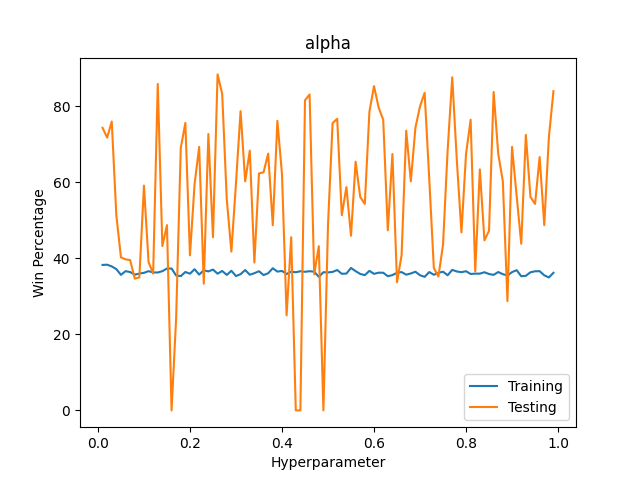
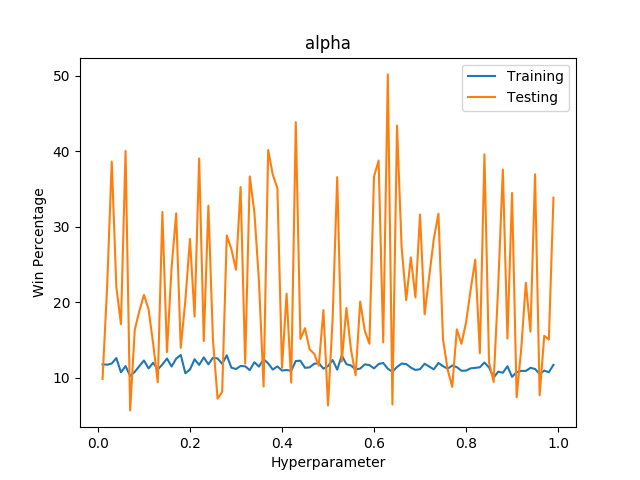
updated docs

diff --git a/qlearning.py b/qlearning.py
@@ -1,12 +1,10 @@
 import numpy as np
 import matplotlib.pyplot as plt
-
 import sys
 
 from minesweeper import Minesweeper
 
 np.random.seed(0)
-
 
 class QLearning():
 
@@ -20,7 +18,7 @@ class QLearning():
 
     def train(self, epochs=1000):
         """
-        Trains model and returns win percentage over epochs. 
+        Trains function and returns win percentage over epochs. 
         """
 
         alpha = self.alpha
@@ -66,7 +64,7 @@ class QLearning():
 
     def test(self, trials=100):
         """
-        Gets win percentage of model over trials. Model repeating action counts as a lose. Model losing on first choice is not counted as lose.
+        Gets win percentage of function over trials. Repeating action counts as a lose. Losing on first choice is not counted as lose.
         """
 
         env = self.env
@@ -114,36 +112,38 @@ def graph():
     testing = []
 
     for x in xs:
-        print(int(x * 100))
-        model = QLearning(size=3, mines=2, gamma=x)
+
+        sys.stdout.write(
+            f'\rDone {x*100}%')
+        sys.stdout.flush()
+
+        model = QLearning(size=4, mines=2, epsilon=x)
         training += [model.train(10000)]
-        testing += [model.test(100)]
+        testing += [model.test(10000)[0]]
 
     plt.plot(xs, training, label="Training")
     plt.plot(xs, testing, label="Testing")
     plt.xlabel('Hyperparameter')
     plt.ylabel('Win Percentage')
-    plt.title('gamma')
+    plt.title('epsilon')
     plt.legend()
-    plt.savefig('graphs/gamma.png')
-    plt.show()
+    plt.savefig('graphs/epsilon.png')
+    # plt.show()
 
 
 if __name__ == "__main__":
+
+    # size=3, mines=2, alpha=0.05, gamma=0.9, epsilon=0.1
+    # size=4, mines=1, alpha=0.3, gamma=0.95, epsilon=0.1
+
     SIZE = 4
     MINES = 2
     ALPHA = 0.2
     GAMMA = 0.9
     EPSILON = 0.1
-
-    # size=3, mines=2, alpha=0.05, gamma=0.9, epsilon=0.1
-    # size=4, mines=1, alpha=0.3, gamma=0.95, epsilon=0.1
     model = QLearning(SIZE, MINES, ALPHA, GAMMA, EPSILON)
-    trainWP = model.train(100000)
+    trainWP = model.train(1000000)
     testWP, penalties = model.test(10000)
-
-    # print(model.q_table.dtype) 
-    # print(model.q_table.nbytes)
 
     print('')
     print(f'Training win percentage: {trainWP}')

diff --git a/minesweeper.py b/minesweeper.py
@@ -15,6 +15,7 @@ class Minesweeper():
         """
         self.size = n
         self.mines = m
+
         # Largest number tile
         self.maxTile = min(m, 8)
         self.numStates = (3 + self.maxTile) ** (n ** 2)
@@ -56,14 +57,14 @@ class Minesweeper():
 
     def getState(self):
         """
-        Return the state number for the current self.board. We treat board like it is in base 11. This way each board state has a unique state number.
+        Return the state number for the current self.board. We treat every cell as it's own digit in base 11. This way each board state has a unique state number.
 
         base 11? 
         1 (cover) + 1 (bomb) + 0-8 (tile numbers) => each tile has 11 states
 
         We can try to cut corners on the largest tile number = min(# of bombs, 8)
 
-        base 3 + self.maxTile 
+        base 3 + self.maxTile?
         1 (cover) + 1 (bomb) + 0-min(# of bombs, 8) (tile numbers) => each tile has 3+maxTile states
         """
         n = self.size
@@ -86,7 +87,7 @@ class Minesweeper():
         """ 
         Takes action and returns new state number, reward and if the game is finished
 
-        action -- uncover board at row action // 2 and col action % 2
+        action -- uncover board at row (action//2) and column (action%2)
         """
         n = self.size
 

diff --git a/readme.md b/readme.md
@@ -1,1 +1,3 @@
 # minesweeper-q-learning
+
+Q-Learning algorithm that can learn to play minesweeper with near perfect win rate.
